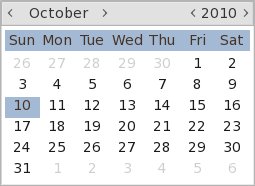
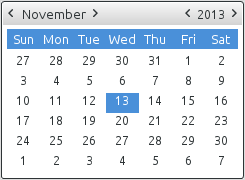
Update screenshots
* GTK3.
* Ditch thumbs, and ditch big fullscreen image.
* Increase size so that smallest image is full-size.

diff --git a/index.html b/index.html
@@ -20,9 +20,8 @@
       <h1>gsimplecal</h1>
 
       <ul id="scrots">
-        <li><a href="g/scrot1.png"><img src="g/scrot1.thumb.png" width="160" height="117" alt="Just a calendar window with months/years switching"></a></li>
-        <li><a href="g/scrot2.png"><img src="g/scrot2.thumb.png" width="160" height="89" alt="Calendar with multiple clocks, config file on the background"></a></li>
-        <li><a href="g/scrot3.png"><img src="g/scrot3.thumb.png" width="160" height="128" alt="Full desktop running openbox, tint2, gvim and gsimplecal"></a></li>
+        <li><a href="g/scrot1.png"><img src="g/scrot1.png" width="245" height="180" alt="Just a calendar window with months/years switching"></a></li>
+        <li><a href="g/scrot2.png"><img src="g/scrot2.png" width="245" height="152" alt="Calendar with multiple clocks, week numbers, current day in bold, config file on the background"></a></li>
       </ul>
 
       <p>
@@ -32,10 +31,10 @@
 
       <p>
         It was intentionally made for use with
-      <a href="http://code.google.com/p/tint2/">tint2</a>
-      panel in the
-      <a href="http://openbox.org/wiki/Main_Page">openbox</a>
-      environment to be launched upon clock click, but of course it will work
+        <a href="http://code.google.com/p/tint2/">tint2</a>
+        panel in the
+        <a href="http://openbox.org/wiki/Main_Page">openbox</a>
+        environment to be launched upon clock click, but of course it will work
         without it. In fact, binding the gsimplecal to some hotkey in you
         window manager will probably make you happy. The thing is that when it
         is started it first shows up, when you run it again it closes the

diff --git a/css/base.css b/css/base.css
@@ -27,7 +27,7 @@ p {
 }
 
 #scrots {
-    width: 160px;
+    width: 250px;
     float: right;
     list-style: none;
 }
